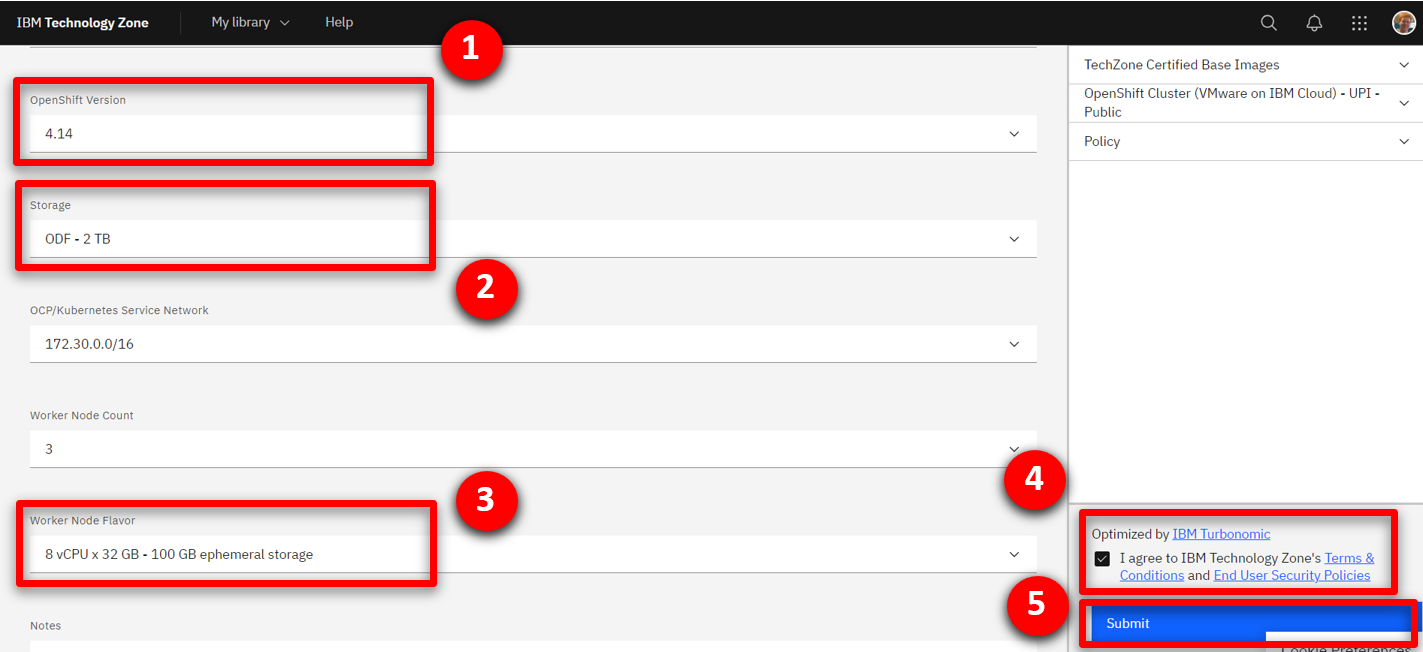
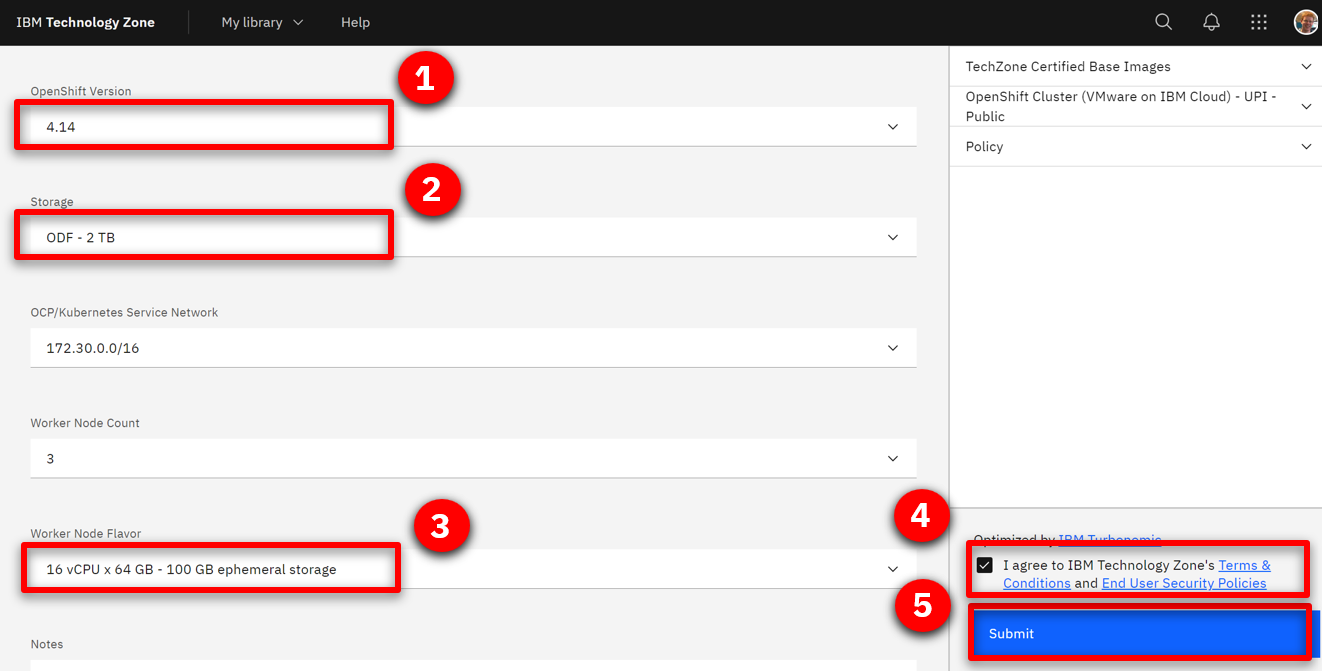
Updates based on feedback on utilization

diff --git a/docs/_includes/integration/integration-prepartion.md b/docs/_includes/integration/integration-prepartion.md
@@ -36,7 +36,7 @@ To provision your own Red Hat OpenShift cluster for the Cloud Pak for Integratio
 <br/><img src="../integration/images/prep-image003.png" width="800" />
 <br/>
 
-4. Several additional fields will appear. Select **4.14** (1) as the OpenShift version, **ODF - 2TB** (2) for the storage, **8 vCPU x 32 GB - 100 GB ephemeral storage** (3) as the worker node flavor, accept the terms and conditions (4) and click **Submit**.
+4. Several additional fields will appear. Select **4.14** (1) as the OpenShift version, **ODF - 2TB** (2) for the storage, **16 vCPU x 64 GB - 100 GB ephemeral storage** (3) as the worker node flavor, accept the terms and conditions (4) and click **Submit**.
 <br/><img src="../integration/images/prep-image004.png" width="800" />
 <br/>
 
